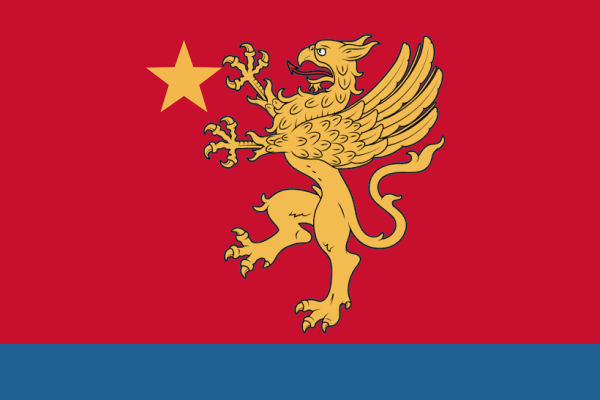
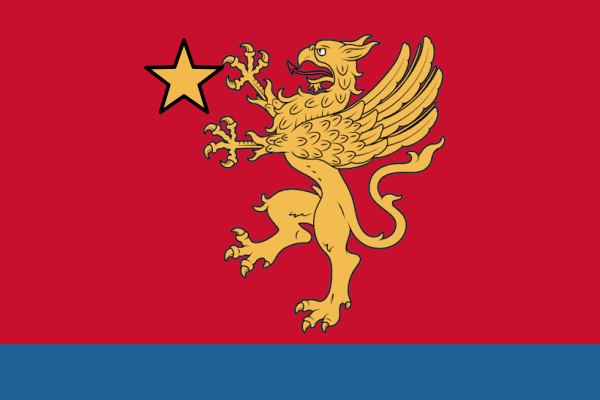
Obodryci rewolucja: czarny kontur gwiazdy
Claude-Session: https://claude.ai/code/session_01PNyJEgjZDVeUSFrp2WbnmN

Changed region(s): [[0.24, 0.09, 0.39, 0.3]]

diff --git a/gfx_koncepty/flagi_polabie/generuj_flagi.py b/gfx_koncepty/flagi_polabie/generuj_flagi.py
@@ -19,7 +19,7 @@ F={
  'obodryci_2_republika': svg(f'<rect width="300" height="100" fill="{WHITE}"/><rect y="100" width="300" height="100" fill="{RED}"/>'
                             f'<circle cx="150" cy="100" r="62" fill="{BLUE}" stroke="{GOLD}" stroke-width="4"/>'+img(GO,GOW,GOH,147.5,105,98)),
  # Obodryci rewolucyjni: czerwień, złoty gryf trzyma się gwiazdy (gwiazda przed szponami)
- 'obodryci_3_rewolucja': svg(f'<rect width="300" height="200" fill="{RED}"/><rect y="172" width="300" height="28" fill="{BLUE}"/>'+img(GO,GOW,GOH,162,92,150)+star(92,40,20,GOLD)),
+ 'obodryci_3_rewolucja': svg(f'<rect width="300" height="200" fill="{RED}"/><rect y="172" width="300" height="28" fill="{BLUE}"/>'+img(GO,GOW,GOH,162,92,150)+star(92,40,20,GOLD).replace('/>',' stroke="#000000" stroke-width="1.8" stroke-linejoin="round"/>')),
 }
 for k,v in F.items():
     p=os.path.join(HERE,k+'.svg'); open(p,'w').write(v)
